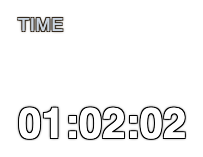
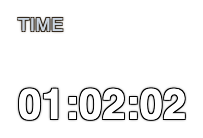
fix: use uniform scale for all widget screenshots including time
Time widget screenshots used larger scale values (0.15/0.18) than
other widgets (0.12), causing inconsistent sizes in the README grid.
Align all widgets to scale 0.12 for uniform appearance.

diff --git a/scripts/generate-widget-screenshots.ts b/scripts/generate-widget-screenshots.ts
@@ -303,7 +303,7 @@ const WIDGET_CONFIGS: WidgetDef[] = [
       type: "time",
       x: 0,
       y: 0,
-      scale: 0.15,
+      scale: 0.12,
       style: "with-bgc",
       mode: "elapsed",
       timezone: "Asia/Singapore",
@@ -317,7 +317,7 @@ const WIDGET_CONFIGS: WidgetDef[] = [
       type: "time",
       x: 0,
       y: 0,
-      scale: 0.15,
+      scale: 0.12,
       style: "without-bgc",
       mode: "elapsed",
       timezone: "Asia/Singapore",
@@ -331,7 +331,7 @@ const WIDGET_CONFIGS: WidgetDef[] = [
       type: "time",
       x: 0,
       y: 0,
-      scale: 0.18,
+      scale: 0.12,
       style: "with-bgc",
       mode: "both",
       timezone: "Asia/Singapore",
@@ -345,7 +345,7 @@ const WIDGET_CONFIGS: WidgetDef[] = [
       type: "time",
       x: 0,
       y: 0,
-      scale: 0.18,
+      scale: 0.12,
       style: "without-bgc",
       mode: "both",
       timezone: "Asia/Singapore",
